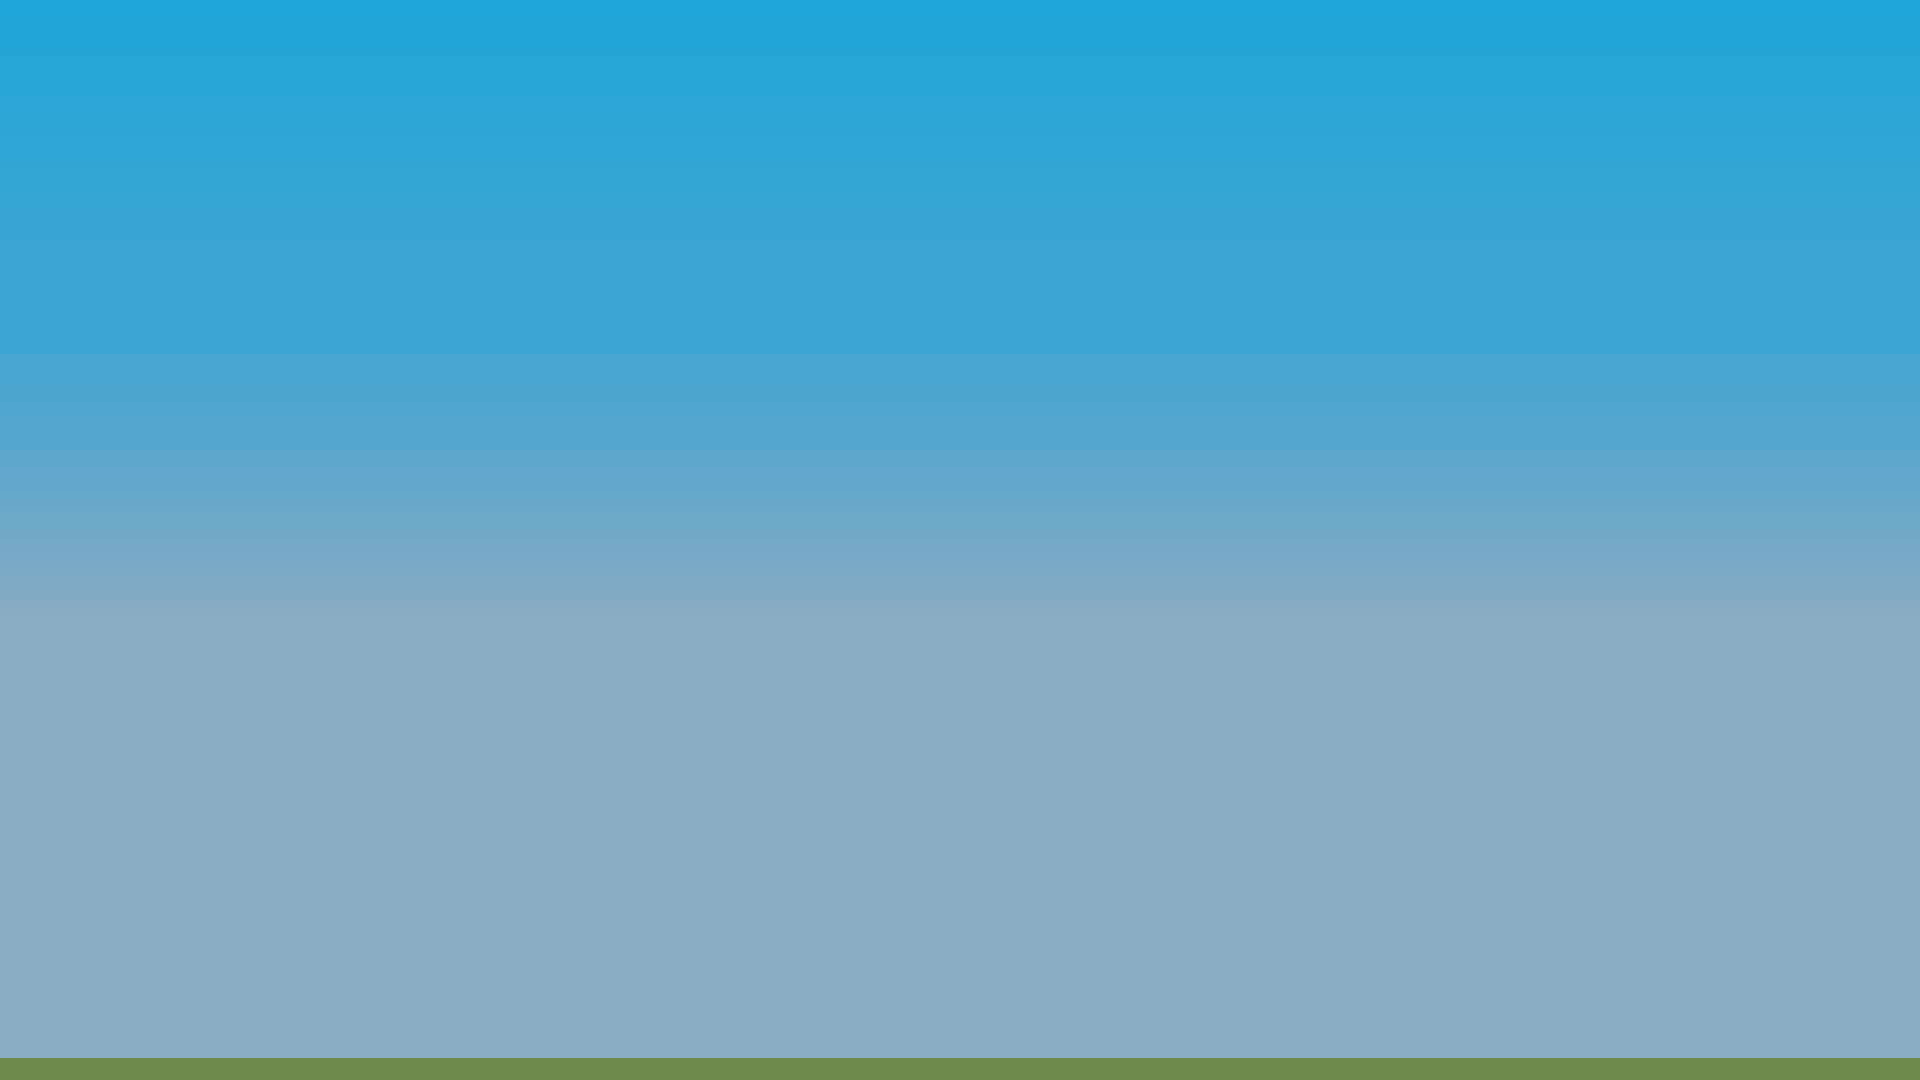
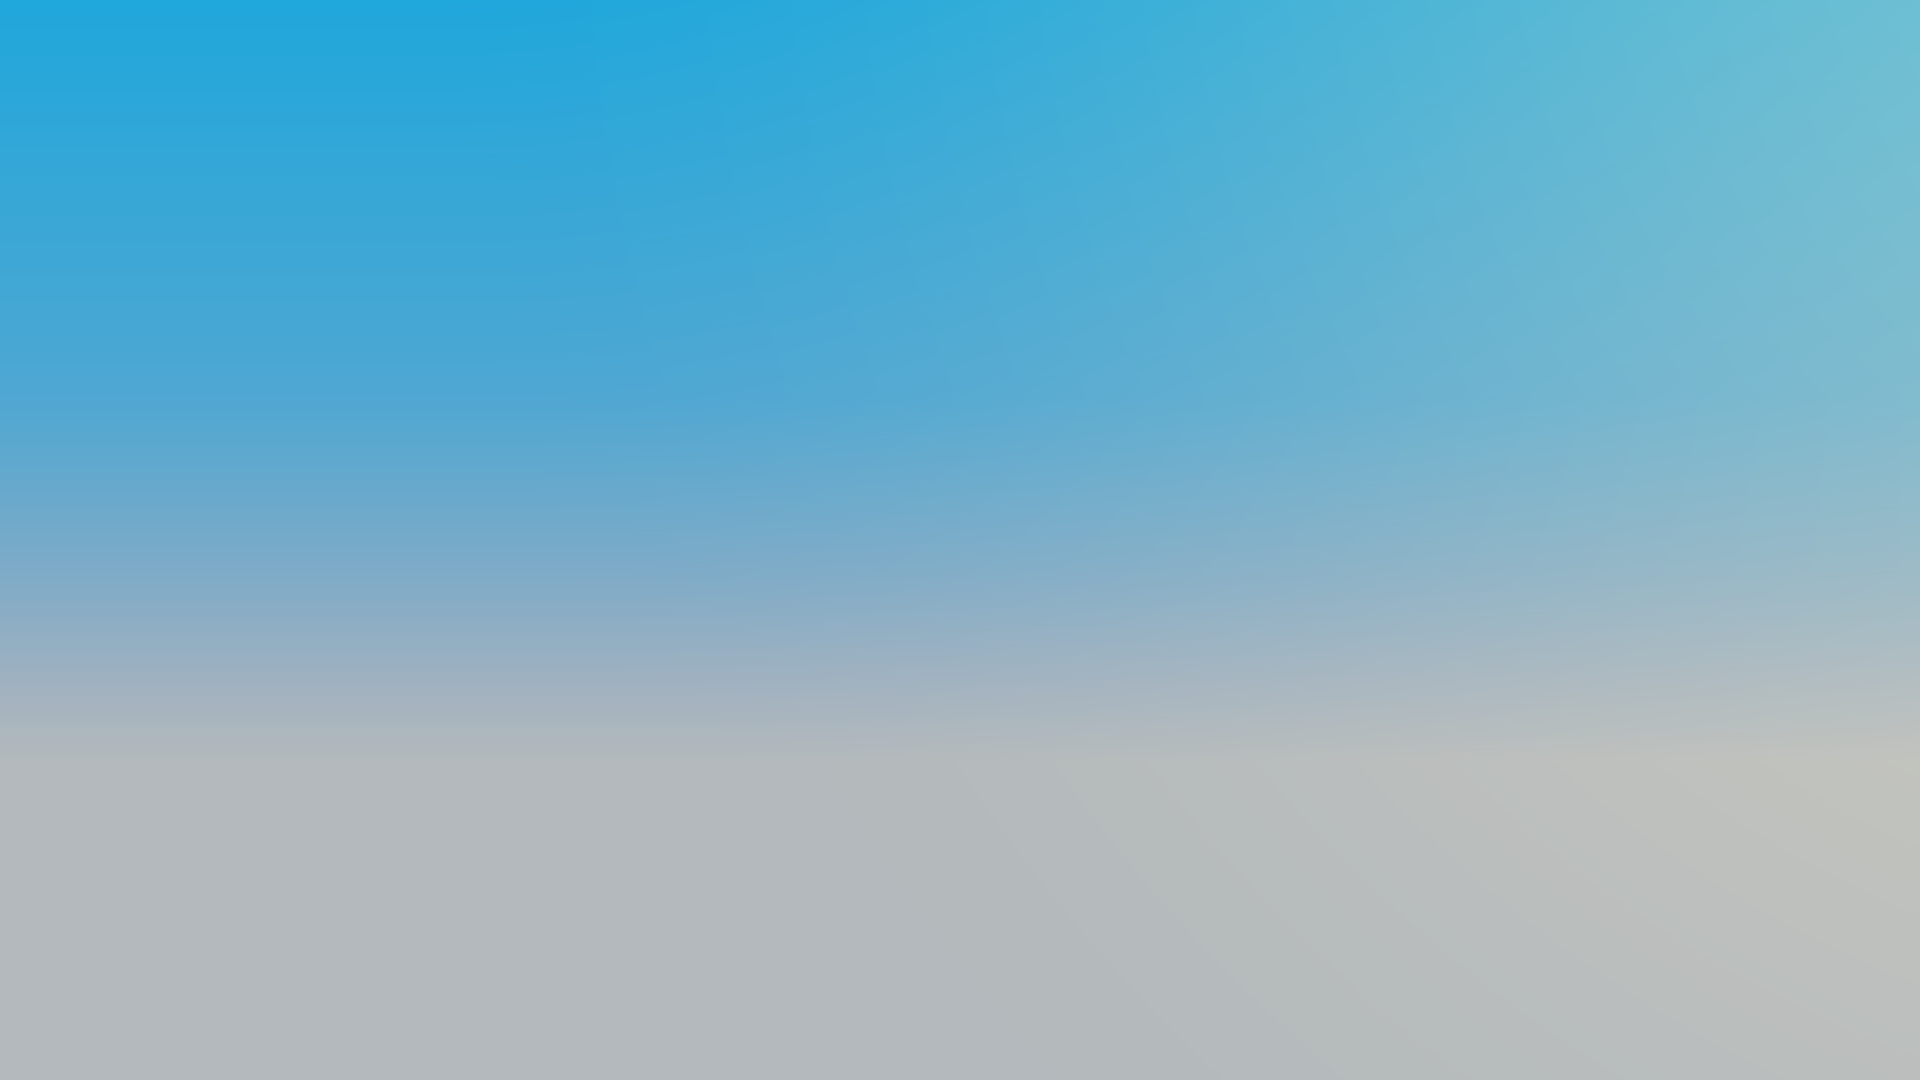
Render the intro plates for real, as cutouts, out of the film's own scene
The plates were derived from the finished frame — depth bands over an extended
sky, because you cannot un-composite a picture. These are rendered.

tools_render_layers.py (in the blender-building-sprites skill) stands the film
scene up and renders frame 0 once per layer with only that layer's collections
visible to the camera, on a transparent background: a cutout of the pixels its
objects cover and alpha everywhere else. Excluded objects also stop CASTING for
the pass, which is the difference between a build-up and a lighting error — a
building that has not arrived must not already be laying its shadow on the road.
film_layers_stitch.py then applies the film's own stipple and shading bands
(imported from film_stitch, not reimplemented) and keeps the alpha instead of
flattening onto the sky, which is the one line frame() does that a layer must not.

THE BUILDINGS ARE NOT IN LOAD_street. They are 21 collections of their own
(LOAD_bldg_off_a, LOAD_bldg_fac_a, ...), which only shows once the scene is
standing — the first render came out with no buildings at all. The layers are
predicates over collection names now, so the split is: city, street, buildings,
and then everything else.

TWO PLATES ARE NOT RENDERED, both deliberately. The sky, because the film's
colour pass hides the sky plane (AgX crushes the emission bands) and the vivid
sky only exists in post — so it comes from the same sky_for() the film uses. And
[…]

diff --git a/price-of-everything-0.1/tools/make_intro_plates.py b/price-of-everything-0.1/tools/make_intro_plates.py
@@ -17,11 +17,12 @@ THE BANDS ARE DEPTH. The film is a one-point-perspective dolly down a street, so
 the horizon IS distance from the camera: the world assembles from the vanishing point outward,
 which is what the shot is about.
 
-This is the stand-in. The real split is available: loading_scene.py keeps the film's geometry
-in four collections — LOAD_sky, LOAD_city, LOAD_street, LOAD_props_veh — and _show_only_load()
-already isolates them per object, so rendering frame 0 four times with progressively more of
-them camera-visible gives true semantic layers. That costs a ~16 min scene build plus three
-passes a plate; this costs six seconds. Same filenames either way.
+SUPERSEDED, AND KEPT AS THE FALLBACK. The shipped plates are now rendered properly in
+Blender — `tools_render_layers.py` + `film_layers_stitch.py` in the blender-building-sprites
+skill — which gives true per-collection cutouts with the film's own shading instead of depth
+bands cut out of the finished frame. Use this when Blender is not to hand, or to re-derive
+plates for a film whose scene you do not have: it costs six seconds against the render's
+~20 minutes, and writes the same filenames.
 """
 
 import os
